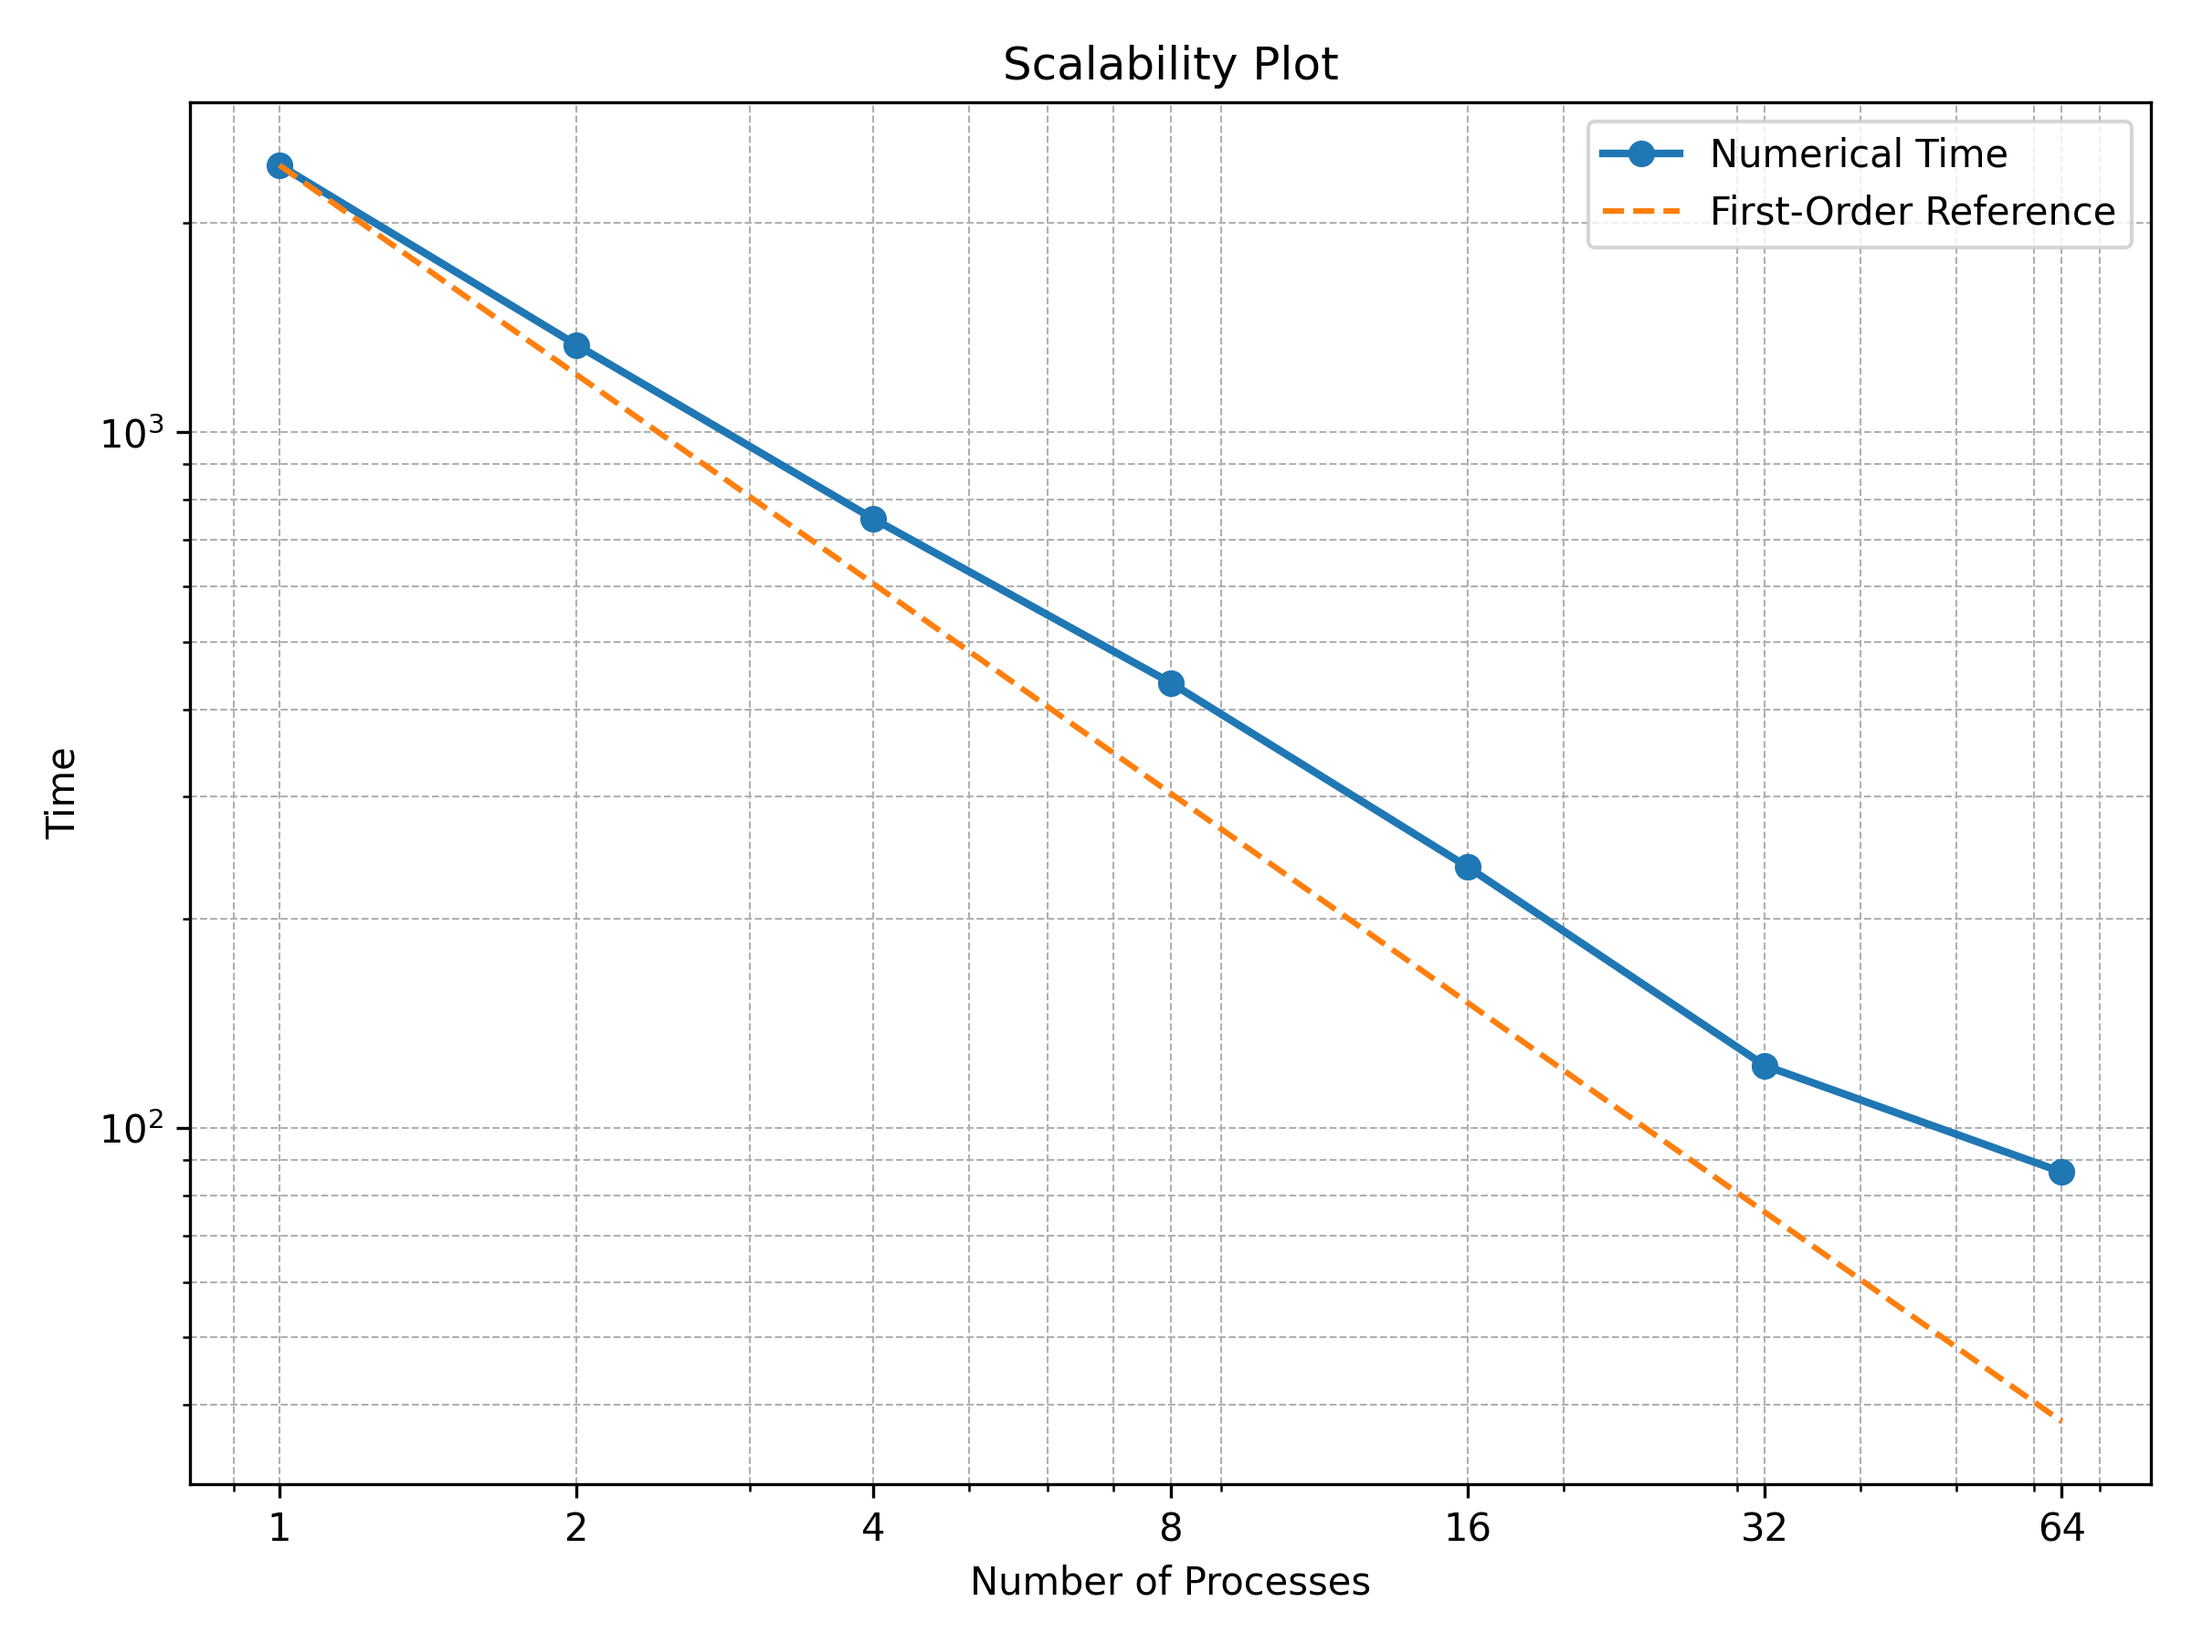
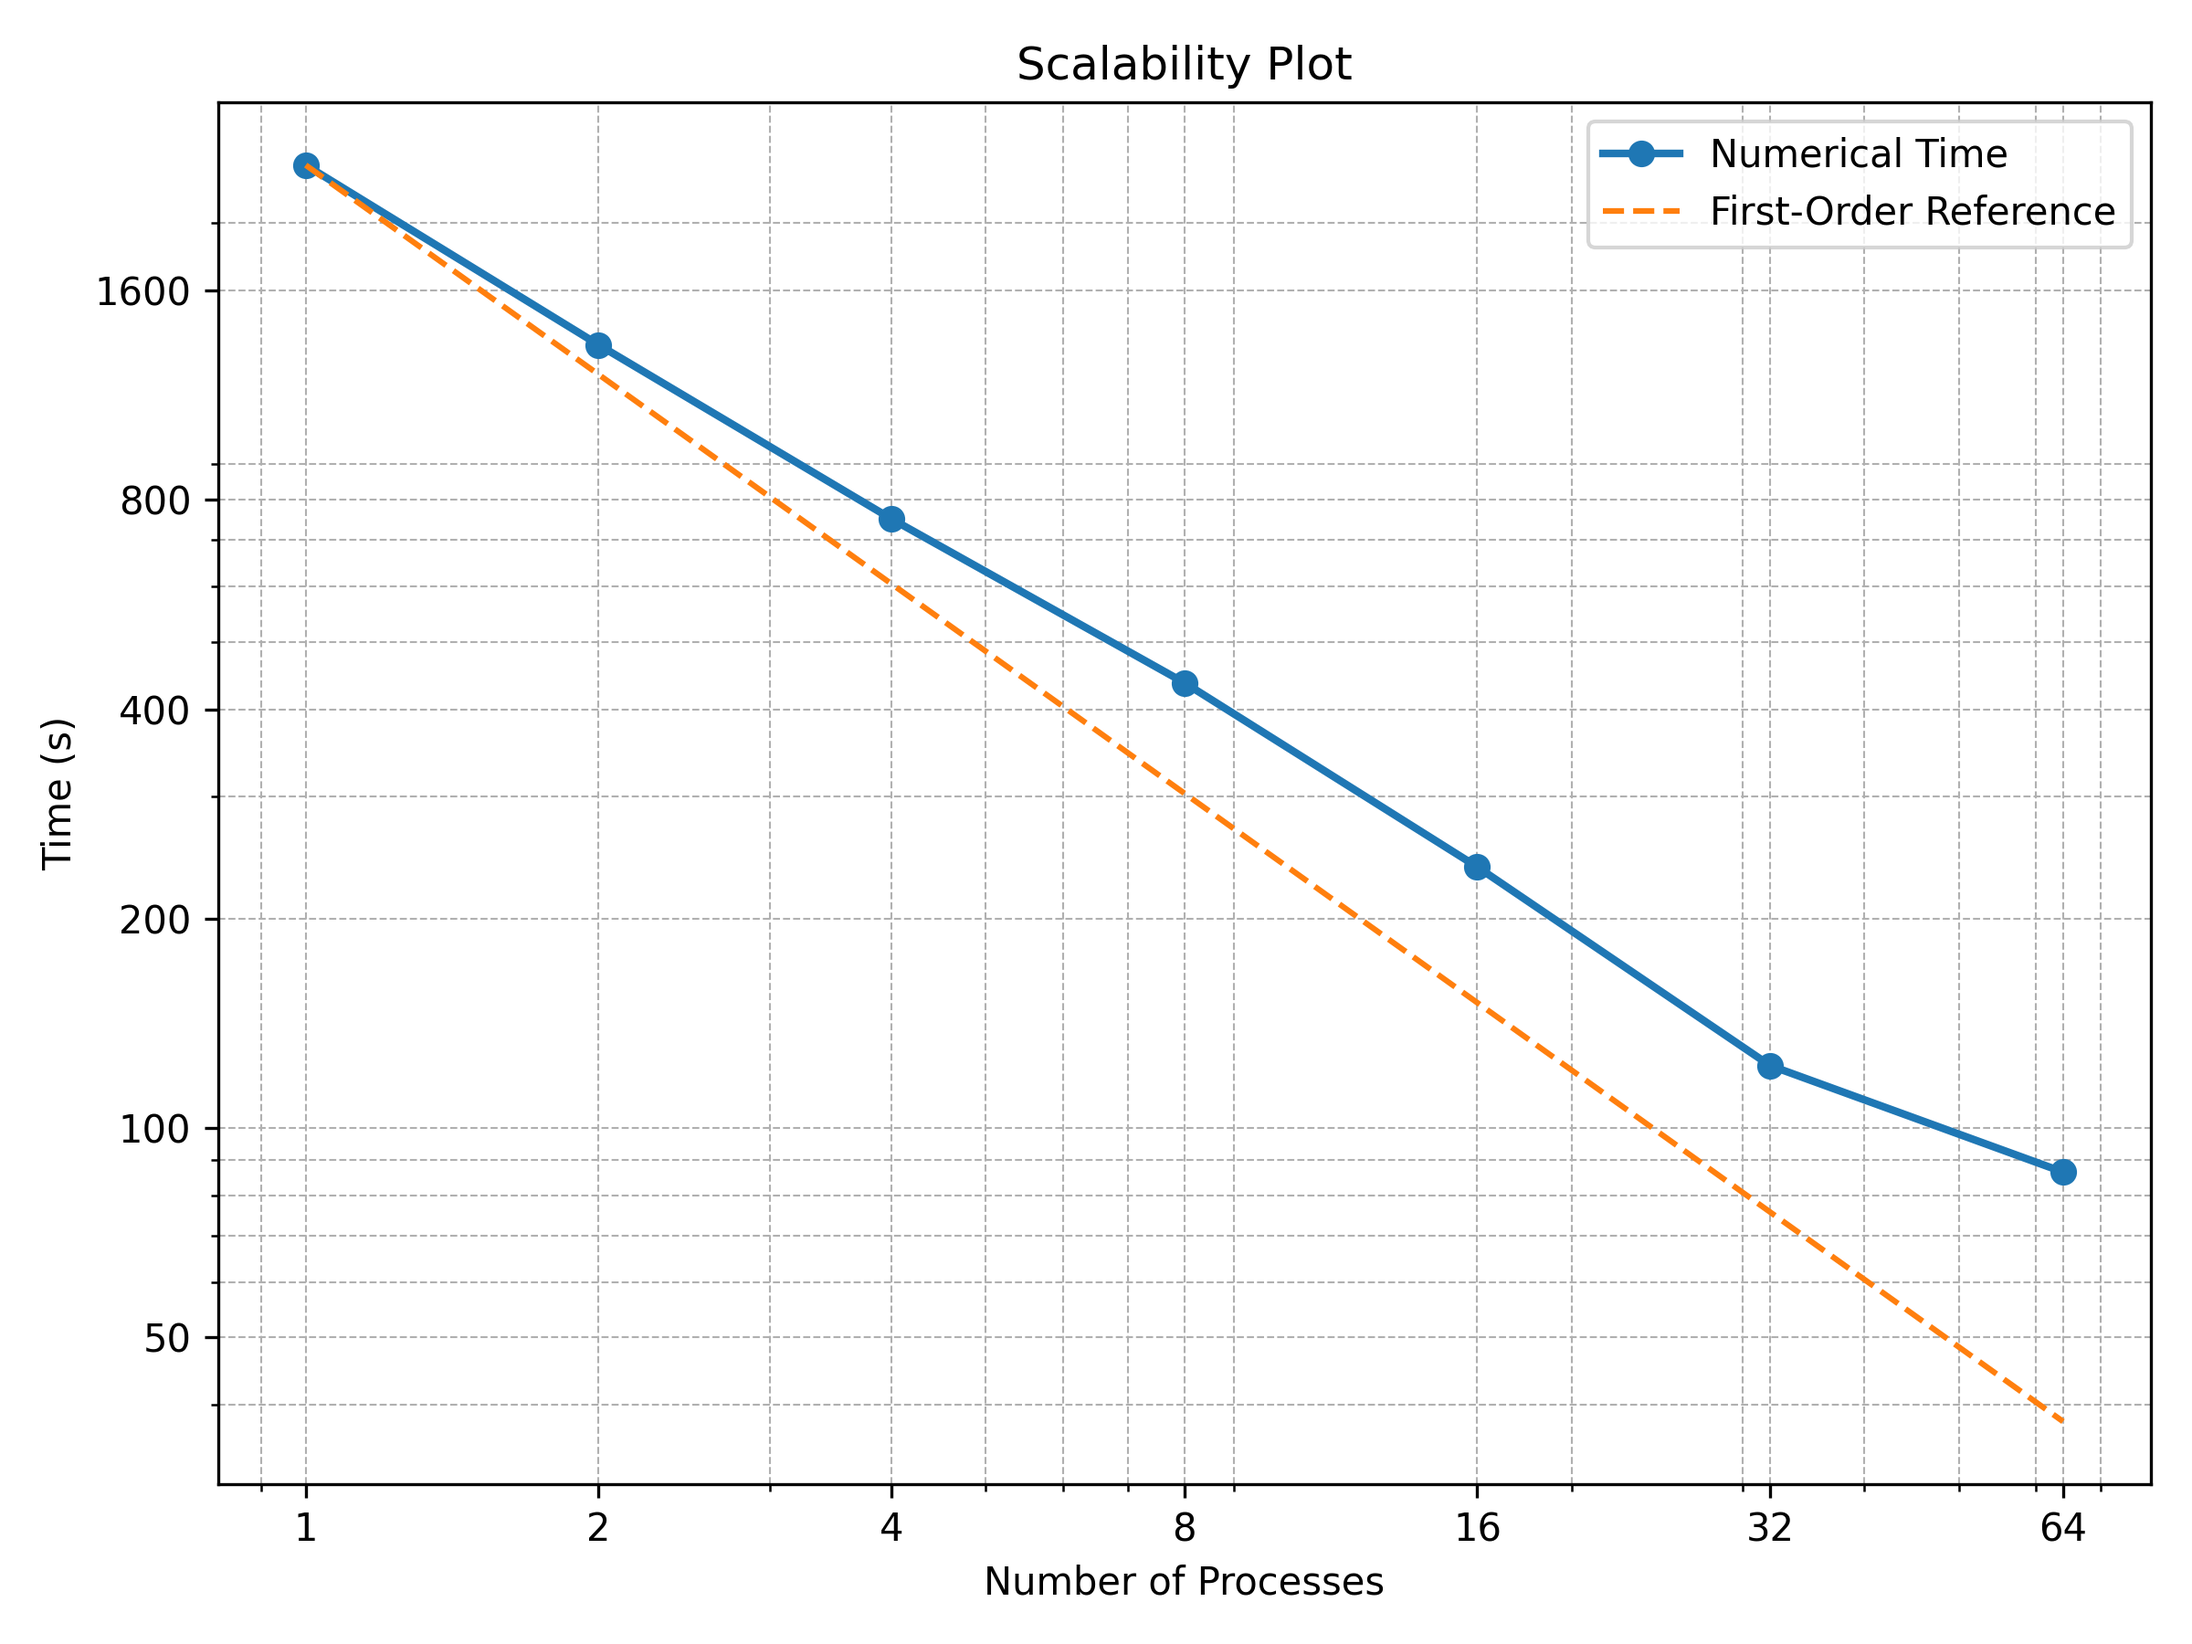
memory graph

diff --git a/scripts/scalability.py b/scripts/scalability.py
@@ -4,11 +4,12 @@ from matplotlib.ticker import NullFormatter
 
 processes = np.array([1, 2, 4, 8, 16, 32, 64])
 times = np.array([2422.912, 1336.381, 751.122, 436.718, 237.379, 122.979, 86.459])
+memory = np.array([1386.785, 2250.618, 3594.989, 4458.447, 6304.562, 10738.0, 20697.175])
 
 plt.figure(figsize=(8, 6))
 plt.loglog(processes, times, marker='o', label='Numerical Time', linewidth=2)
 plt.xlabel('Number of Processes')
-plt.ylabel('Time')
+plt.ylabel('Time (s)')
 plt.title('Scalability Plot')
 
 # Plot a first-order reference line
@@ -20,6 +21,8 @@ plt.gca().xaxis.set_major_formatter(NullFormatter())
 plt.gca().xaxis.set_minor_formatter(NullFormatter())
 plt.gca().set_xticks(processes)
 plt.gca().set_xticklabels([str(p) for p in processes])
+plt.gca().set_yticks(np.array([1600, 800, 400, 200, 100, 50]))
+plt.gca().set_yticklabels([str(t) for t in np.array([1600, 800, 400, 200, 100, 50])])
 
 plt.grid(True, which='both', linestyle='--', linewidth=0.5)
 plt.legend()
@@ -33,3 +36,24 @@ p = np.zeros(6)
 for i in range(len(p)):
     p[i] = np.log(times[i+1] / times[i]) / np.log(processes[i] / processes[i+1])
 print(f'Estimated order of scalability: {p}')
+
+# Memory Usage Plot
+plt.figure(figsize=(8, 6))
+plt.loglog(processes, memory, marker='o', label='Memory Usage', linewidth=2)
+plt.xlabel('Number of Processes')
+plt.ylabel('Memory (MB)')
+plt.title('Memory Usage Plot')
+mem_ref = memory[3]
+mem_ref_line = mem_ref * (processes / processes[3])
+plt.loglog(processes, mem_ref_line, '--', label='First-Order Reference', linewidth=1.5)
+
+plt.gca().xaxis.set_major_formatter(NullFormatter())
+plt.gca().xaxis.set_minor_formatter(NullFormatter())
+plt.gca().set_xticks(processes)
+plt.gca().set_xticklabels([str(p) for p in processes])
+plt.gca().set_yticks(np.array([1000, 2000, 4000, 8000, 16000, 32000]))
+plt.gca().set_yticklabels([str(t) for t in np.array([1000, 2000, 4000, 8000, 16000, 32000])])
+plt.grid(True, which='both', linestyle='--', linewidth=0.5)
+plt.legend()
+plt.tight_layout()
+plt.savefig('../media/memory_plot.png', dpi=300)
